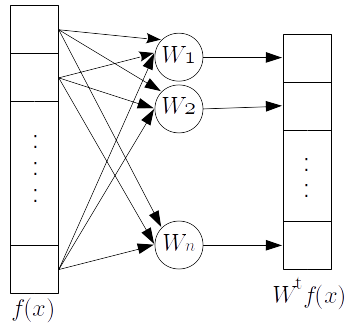
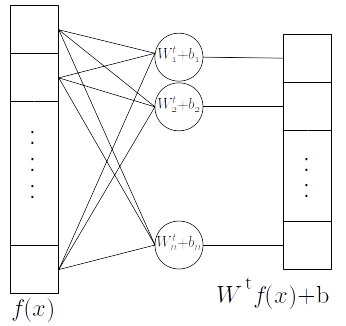
figura fc

diff --git a/deep_metric_learning.html b/deep_metric_learning.html
@@ -316,7 +316,7 @@ probability that nearest neighbour of <span class="katex"><span class="katex-mat
 <li>remember <span class="katex"><span class="katex-mathml"><math xmlns="http://www.w3.org/1998/Math/MathML"><semantics><mrow><mi>ϕ</mi><mo stretchy="false">(</mo><mi>x</mi><mo separator="true">;</mo><mi>w</mi><mo stretchy="false">)</mo></mrow><annotation encoding="application/x-tex">\phi(x ; w)</annotation></semantics></math></span><span class="katex-html" aria-hidden="true"><span class="base"><span class="strut" style="height:1em;vertical-align:-0.25em;"></span><span class="mord mathdefault">ϕ</span><span class="mopen">(</span><span class="mord mathdefault">x</span><span class="mpunct">;</span><span class="mspace" style="margin-right:0.16666666666666666em;"></span><span class="mord mathdefault" style="margin-right:0.02691em;">w</span><span class="mclose">)</span></span></span></span> output of neural network with parameters <span class="katex"><span class="katex-mathml"><math xmlns="http://www.w3.org/1998/Math/MathML"><semantics><mrow><mi>w</mi></mrow><annotation encoding="application/x-tex">w</annotation></semantics></math></span><span class="katex-html" aria-hidden="true"><span class="base"><span class="strut" style="height:0.43056em;vertical-align:0em;"></span><span class="mord mathdefault" style="margin-right:0.02691em;">w</span></span></span></span></li>
 </ul>
 </section>
-</foreignObject></svg><svg data-marpit-svg="" viewBox="0 0 1280 720"><foreignObject width="1280" height="720"><section data-paginate="true" data-marpit-pagination="40" data-marpit-pagination-total="139" style="--paginate:true;--marpit-advanced-background-split:30%;" data-marpit-advanced-background="background" data-marpit-advanced-background-split="right"><div data-marpit-advanced-background-container="true" data-marpit-advanced-background-direction="horizontal"><figure style="background-image:url(&quot;fc.png&quot;);background-size:auto 300px;"></figure></div></section></foreignObject><foreignObject width="70%" height="720"><section id="40" data-paginate="true" data-marpit-pagination="40" data-marpit-pagination-total="139" style="--paginate:true;--marpit-advanced-background-split:30%;" data-marpit-advanced-background="content" data-marpit-advanced-background-split="right">
+</foreignObject></svg><svg data-marpit-svg="" viewBox="0 0 1280 720"><foreignObject width="1280" height="720"><section data-paginate="true" data-marpit-pagination="40" data-marpit-pagination-total="139" style="--paginate:true;--marpit-advanced-background-split:30%;" data-marpit-advanced-background="background" data-marpit-advanced-background-split="right"><div data-marpit-advanced-background-container="true" data-marpit-advanced-background-direction="horizontal"><figure style="background-image:url(&quot;figures/fc.png&quot;);background-size:auto 350px;"></figure></div></section></foreignObject><foreignObject width="70%" height="720"><section id="40" data-paginate="true" data-marpit-pagination="40" data-marpit-pagination-total="139" style="--paginate:true;--marpit-advanced-background-split:30%;" data-marpit-advanced-background="content" data-marpit-advanced-background-split="right">
 <h2>Normalized softmax losses</h2>
 <p>Cross-entropy is the preferred loss for classification</p>
 <ul>

diff --git a/deep_metric_learning.md b/deep_metric_learning.md
@@ -429,7 +429,7 @@ L_{xe} = - \displaystyle\frac{1}{m} \displaystyle\sum_{i=1}^m \text{one-hot}(y_i
 = - \displaystyle\frac{1}{m} \displaystyle\sum_{i=1}^m \log \displaystyle\frac{e^{W_{y_i}^t f(x_i) + b_{y_i}}}{\sum_{j=1}^n e^{W_{y_j}^t f(x_i) + b_{y_j}}}
 $$
 
-![bg right:30% height:300px](fc.png)
+![bg right:30% height:350px](figures/fc.png)
 
 ---
 
